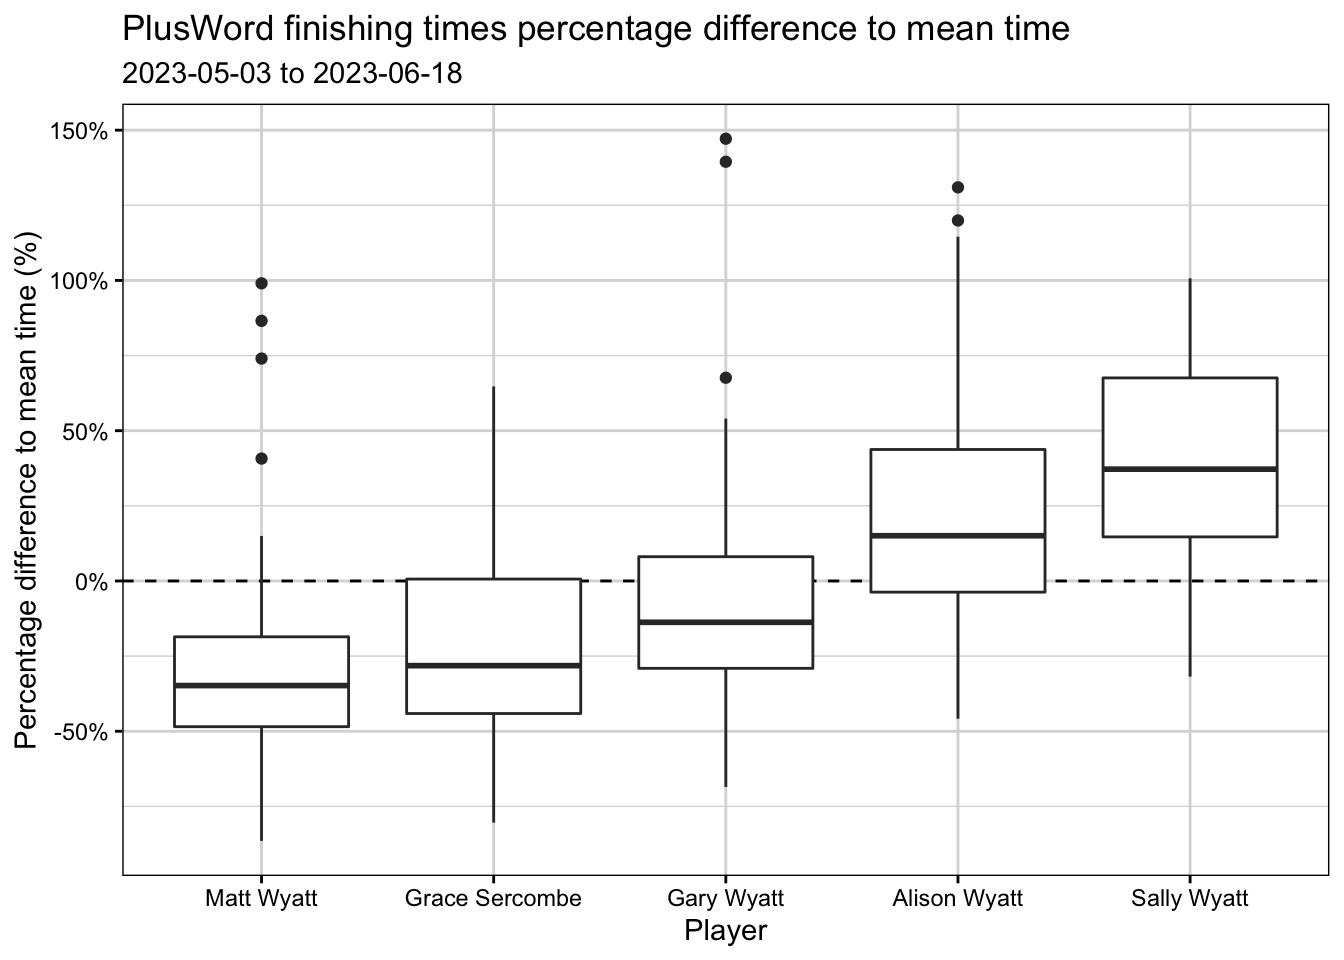
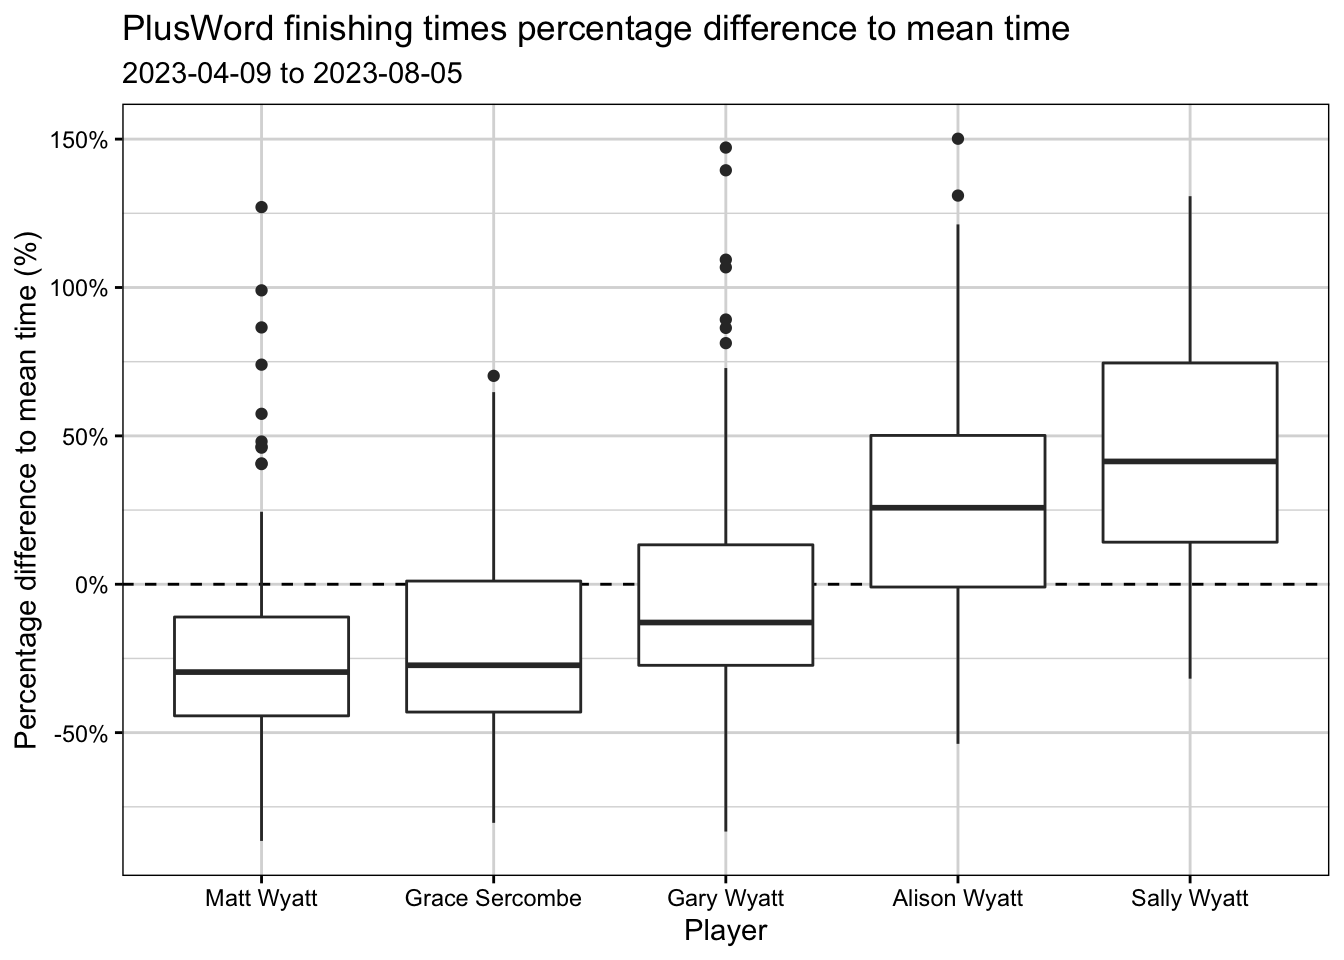
Latest render of document

diff --git a/plusword_analysis.html b/plusword_analysis.html
@@ -85,48 +85,48 @@ ul.task-list li input[type="checkbox"] {
 <tbody>
 <tr class="odd">
 <td style="text-align: left;">Grace Sercombe</td>
-<td style="text-align: right;">20</td>
-<td style="text-align: right;">8</td>
-<td style="text-align: right;">7</td>
-<td style="text-align: right;">9</td>
+<td style="text-align: right;">48</td>
+<td style="text-align: right;">25</td>
+<td style="text-align: right;">21</td>
+<td style="text-align: right;">13</td>
 <td style="text-align: right;">0</td>
-<td style="text-align: right;">44</td>
+<td style="text-align: right;">107</td>
 </tr>
 <tr class="even">
 <td style="text-align: left;">Matt Wyatt</td>
-<td style="text-align: right;">18</td>
-<td style="text-align: right;">19</td>
-<td style="text-align: right;">3</td>
-<td style="text-align: right;">5</td>
-<td style="text-align: right;">1</td>
+<td style="text-align: right;">47</td>
 <td style="text-align: right;">46</td>
+<td style="text-align: right;">13</td>
+<td style="text-align: right;">9</td>
+<td style="text-align: right;">1</td>
+<td style="text-align: right;">116</td>
 </tr>
 <tr class="odd">
 <td style="text-align: left;">Gary Wyatt</td>
-<td style="text-align: right;">6</td>
-<td style="text-align: right;">12</td>
-<td style="text-align: right;">18</td>
+<td style="text-align: right;">17</td>
+<td style="text-align: right;">33</td>
+<td style="text-align: right;">43</td>
+<td style="text-align: right;">14</td>
 <td style="text-align: right;">5</td>
-<td style="text-align: right;">4</td>
-<td style="text-align: right;">45</td>
+<td style="text-align: right;">112</td>
 </tr>
 <tr class="even">
 <td style="text-align: left;">Alison Wyatt</td>
-<td style="text-align: right;">1</td>
 <td style="text-align: right;">7</td>
-<td style="text-align: right;">13</td>
-<td style="text-align: right;">15</td>
-<td style="text-align: right;">7</td>
+<td style="text-align: right;">11</td>
+<td style="text-align: right;">26</td>
 <td style="text-align: right;">43</td>
+<td style="text-align: right;">10</td>
+<td style="text-align: right;">97</td>
 </tr>
 <tr class="odd">
 <td style="text-align: left;">Sally Wyatt</td>
 <td style="text-align: right;">1</td>
-<td style="text-align: right;">1</td>
-<td style="text-align: right;">5</td>
-<td style="text-align: right;">9</td>
-<td style="text-align: right;">14</td>
-<td style="text-align: right;">30</td>
+<td style="text-align: right;">2</td>
+<td style="text-align: right;">10</td>
+<td style="text-align: right;">12</td>
+<td style="text-align: right;">23</td>
+<td style="text-align: right;">48</td>
 </tr>
 </tbody>
 </table>
@@ -135,6 +135,11 @@ ul.task-list li input[type="checkbox"] {
 <div class="cell">
 <div class="cell-output-display">
 <p><img src="plusword_analysis_files/figure-html/total_wins-1.png" class="img-fluid" width="672"></p>
+</div>
+</div>
+<div class="cell">
+<div class="cell-output-display">
+<p><img src="plusword_analysis_files/figure-html/total_wins_over_time-1.png" class="img-fluid" width="672"></p>
 </div>
 </div>
 </section>
@@ -153,6 +158,11 @@ ul.task-list li input[type="checkbox"] {
 <div class="cell">
 <div class="cell-output-display">
 <p><img src="plusword_analysis_files/figure-html/fastest_time-1.png" class="img-fluid" width="672"></p>
+</div>
+</div>
+<div class="cell">
+<div class="cell-output-display">
+<p><img src="plusword_analysis_files/figure-html/fastest_time_evolution-1.png" class="img-fluid" width="672"></p>
 </div>
 </div>
 </section>
